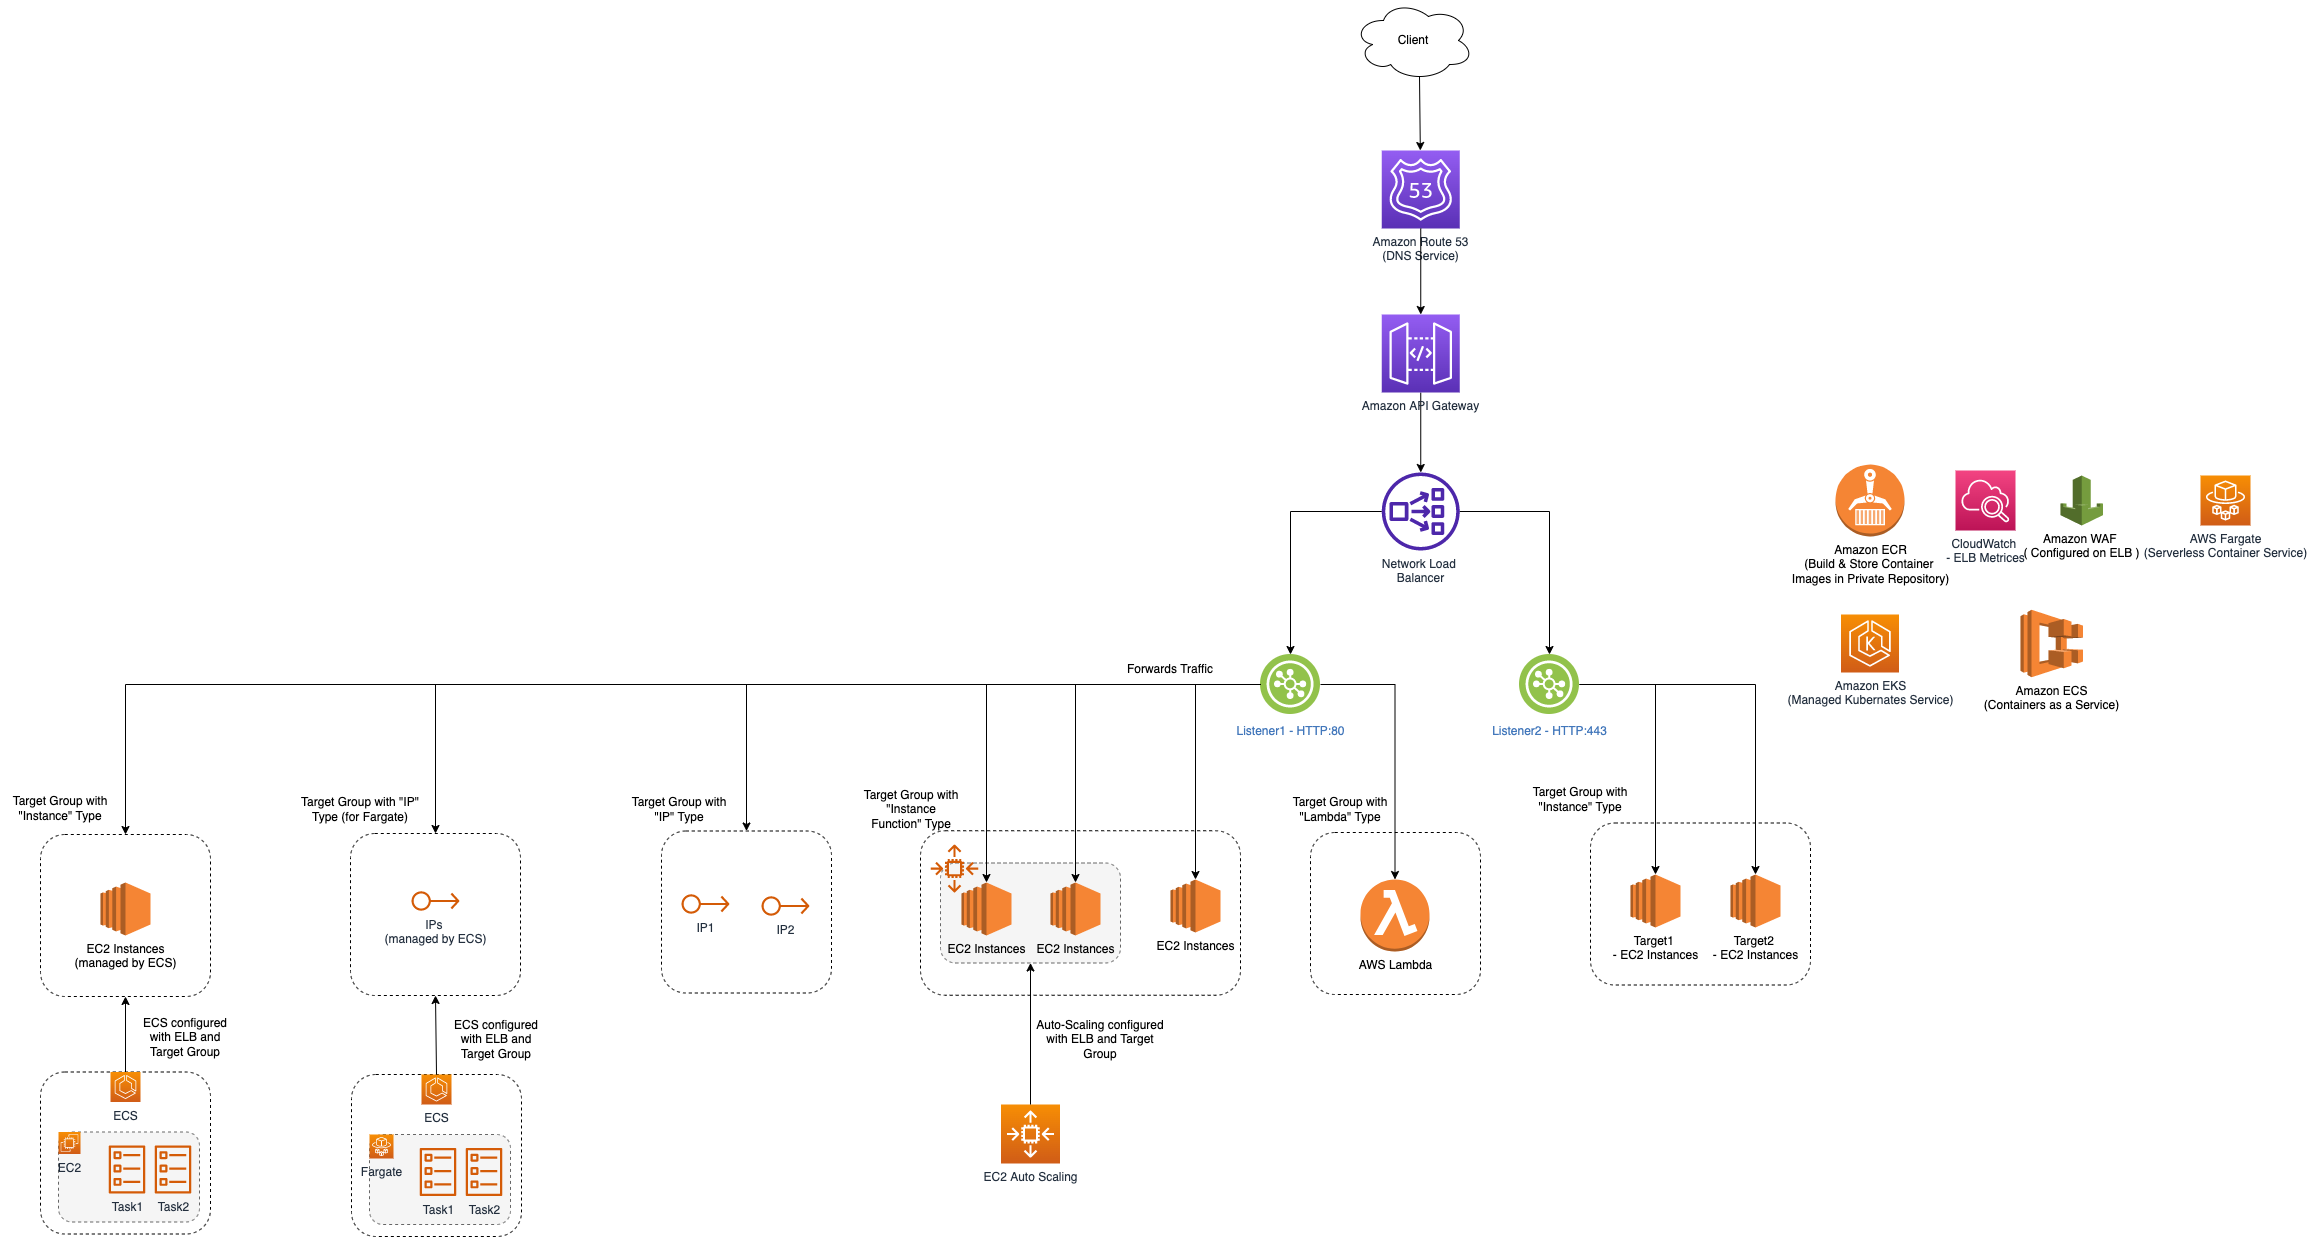
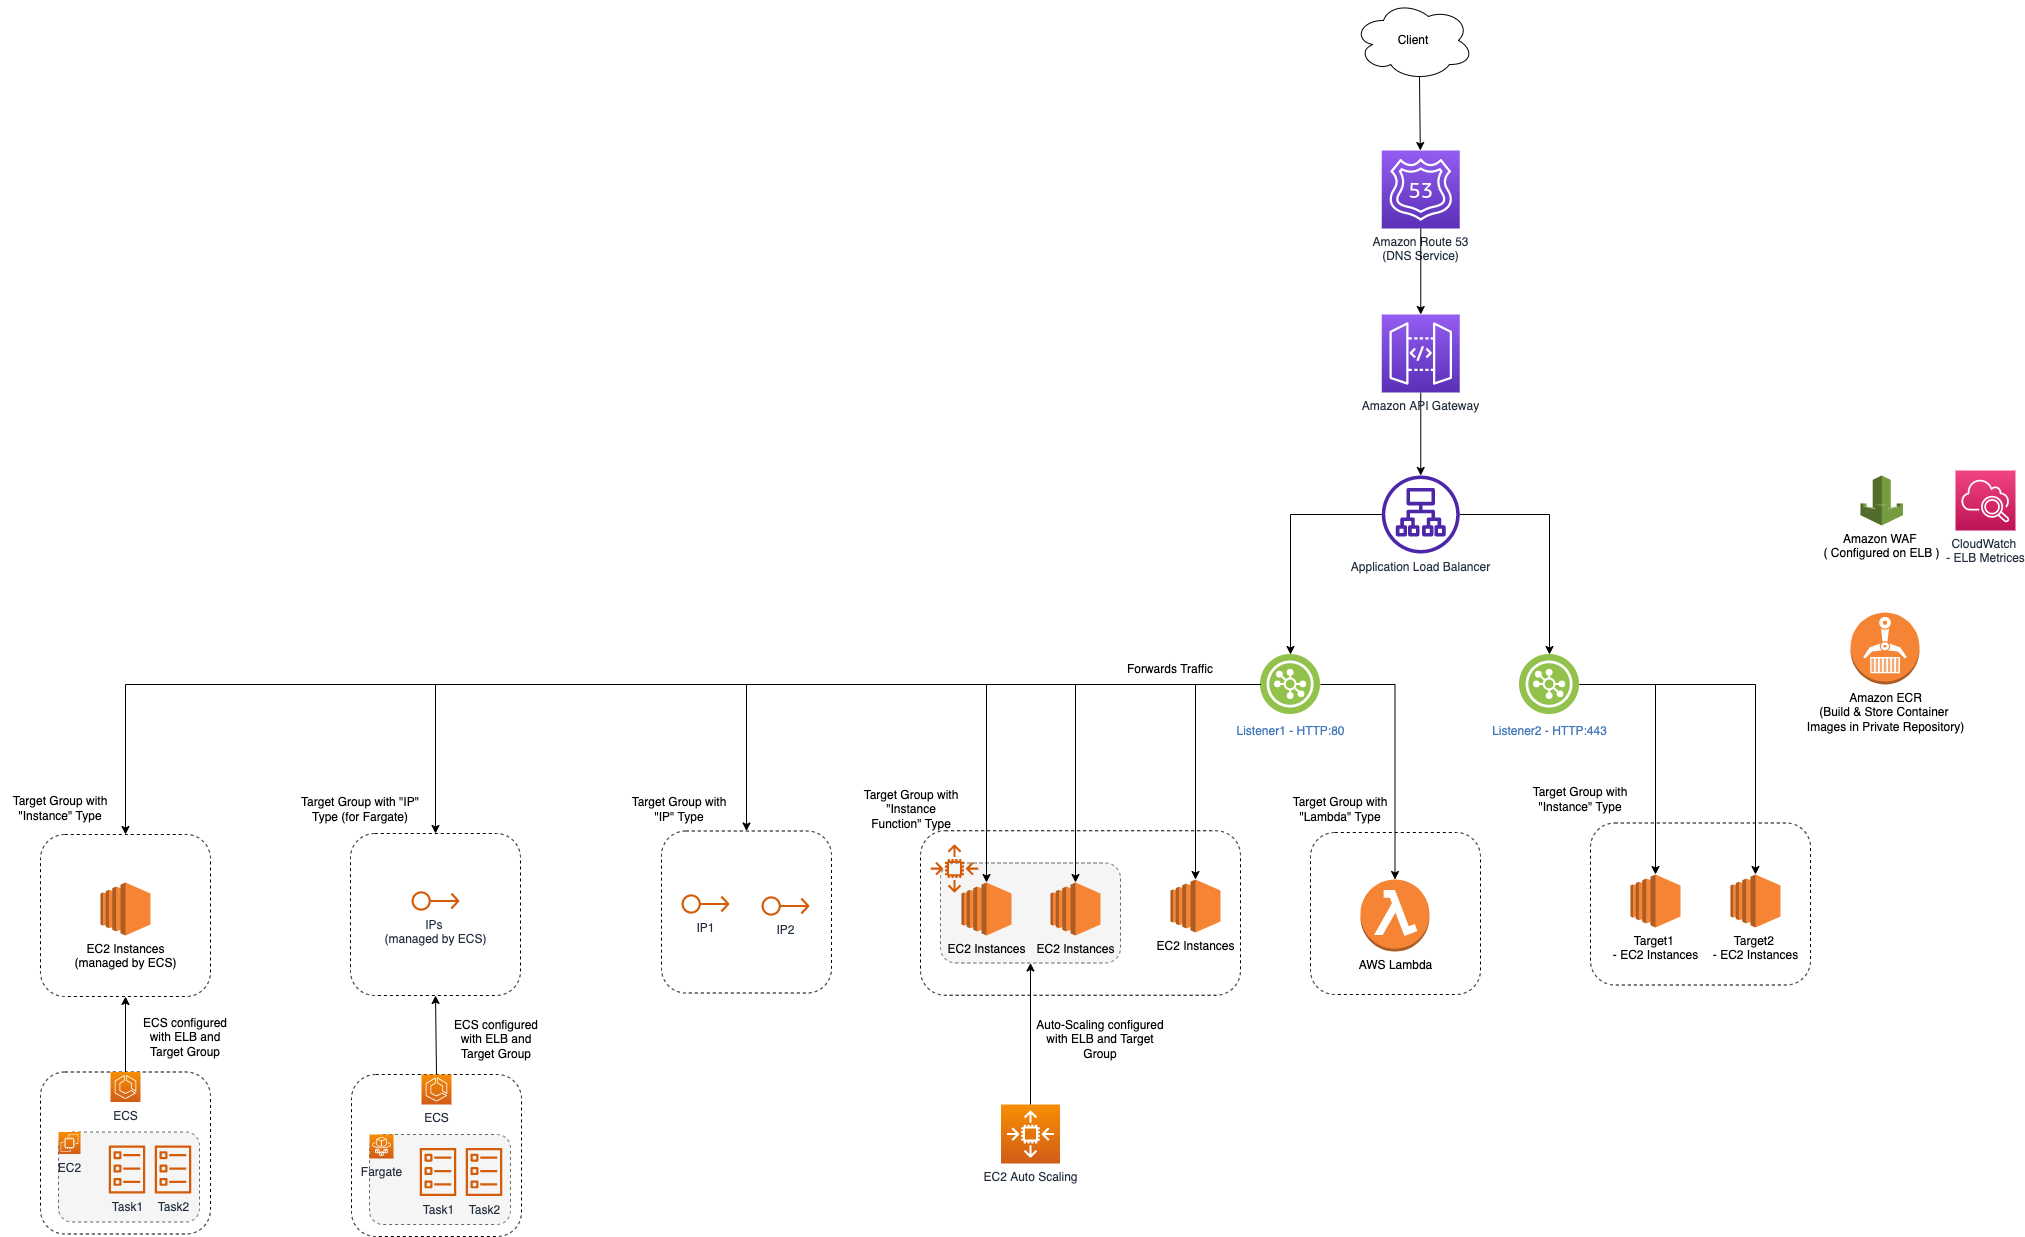
ELB

diff --git a/src/2_AWSComponents/1_NetworkingAndContentDelivery/ElasticLoadBalancer/Readme.md b/src/2_AWSComponents/1_NetworkingAndContentDelivery/ElasticLoadBalancer/Readme.md
@@ -20,7 +20,7 @@
 ## Target Group
 - [Each target group](https://docs.aws.amazon.com/elasticloadbalancing/latest/network/load-balancer-target-groups.html) routes requests to one or more registered targets, such as [EC2 instances](../../4_ComputeServices/AmazonEC2), using the TCP protocol ( in case of [Network Load Balancer](#network-load-balancer)) and the port number that you specify.
 - You can register a target with multiple target groups.
-- You can configure health checks on a per target group basis.
+- You can [configure health checks on a per target group basis](https://docs.aws.amazon.com/elasticloadbalancing/latest/application/target-group-health-checks.html).
 - Health checks are performed on all targets registered to a target group that is specified in a listener rule for your load balancer.
 
 # Types of ELB Load Balancers
@@ -30,18 +30,28 @@ You can select the type of [load balancer](../../../1_HLDDesignComponents/0_Syst
 - [Application Load Balancer](#application-load-balancer)
 - [Gateway Load Balancer](#gateway-load-balancer)
 
+## Difference b/w Network Load Balancer and Application Load Balancer
+
+| Basis                        | Network Load Balancer                           | Application Load Balancer |
+|------------------------------|-------------------------------------------------|---------------------------|
+| Supported Protocols          | TCP, UDP                                        | HTTP, HTTPs               |
+| Supported Target Group Types | Instance, IP                                    | Instance, IP, Lambda      |
+| Content-Based Routing        | Not-Supported                      | Supported                 |
+| Rough Throughput             | Millions of requests per second                 | -                         |
+| Ideally Use Cases            | Microservices (if API gateway used), other apps | Microservices, Container-based apps |
+
 ## Network Load Balancer
 - Choose a [Network Load Balancer](https://docs.aws.amazon.com/elasticloadbalancing/latest/network/introduction.html) when you need ultra-high performance, TLS offloading at scale, centralized certificate deployment, support for UDP, and static IP addresses for your applications.
-- Operating at the [connection level (TCD, UDP)](https://www.diffen.com/difference/TCP_vs_UDP), Network Load Balancers are capable of handling [millions of requests per second securely](../../../1_HLDDesignComponents/0_SystemGlossaries/LatencyThroughput.md)  while maintaining [ultra-low latencies](../../../1_HLDDesignComponents/0_SystemGlossaries/LatencyThroughput.md).
+- Operating at the [connection level (TCD, UDP)](https://www.diffen.com/difference/TCP_vs_UDP), Network Load Balancers are capable of handling [millions of requests per second securely](../../../1_HLDDesignComponents/0_SystemGlossaries/LatencyThroughput.md) while maintaining [ultra-low latencies](../../../1_HLDDesignComponents/0_SystemGlossaries/LatencyThroughput.md).
 
-![img.png](https://s3.eu-west-1.amazonaws.com/elb-polaris-static-content-eu-west-1-prod/2022-09-19T20-42-20_fc1ae7b23404afb246e594df0e2d4e9e9f00cb47e1e00dda5f179758e9a0fb67/Static/NLBdiagram.svg)
+[//]: # (![img.png]&#40;https://s3.eu-west-1.amazonaws.com/elb-polaris-static-content-eu-west-1-prod/2022-09-19T20-42-20_fc1ae7b23404afb246e594df0e2d4e9e9f00cb47e1e00dda5f179758e9a0fb67/Static/NLBdiagram.svg&#41;)
 
 ## Application Load Balancer
 - Choose an [Application Load Balancer](https://aws.amazon.com/elasticloadbalancing/application-load-balancer/) when you need a flexible feature set for your applications with [HTTP and HTTPS traffic](https://www.izooto.com/blog/understanding-http-https-protocols). 
 - Operating at the request level (HTTP, HTTPs), Application Load Balancers provide advanced routing and visibility features targeted at application architectures, including [microservices](../../../1_HLDDesignComponents/1_MicroServicesSOA) and [containers](../../../1_HLDDesignComponents/0_SystemGlossaries/ContainerOrchestrationService.md).
 - Application Load Balancer allows for multiple applications (using [Content-based routing - /FOO, /BAR](https://aws.amazon.com/blogs/aws/new-advanced-request-routing-for-aws-application-load-balancers/) etc.) to be hosted behind a single load balancer.
 
-![img.png](https://s3.eu-west-1.amazonaws.com/elb-polaris-static-content-eu-west-1-prod/2022-09-19T20-42-20_fc1ae7b23404afb246e594df0e2d4e9e9f00cb47e1e00dda5f179758e9a0fb67/Static/ALBdiagram.svg)
+[//]: # (![img.png]&#40;https://s3.eu-west-1.amazonaws.com/elb-polaris-static-content-eu-west-1-prod/2022-09-19T20-42-20_fc1ae7b23404afb246e594df0e2d4e9e9f00cb47e1e00dda5f179758e9a0fb67/Static/ALBdiagram.svg&#41;)
 
 ### Key Features of ALB
 - [Highly available](../../../1_HLDDesignComponents/0_SystemGlossaries/HighAvailability.md)
